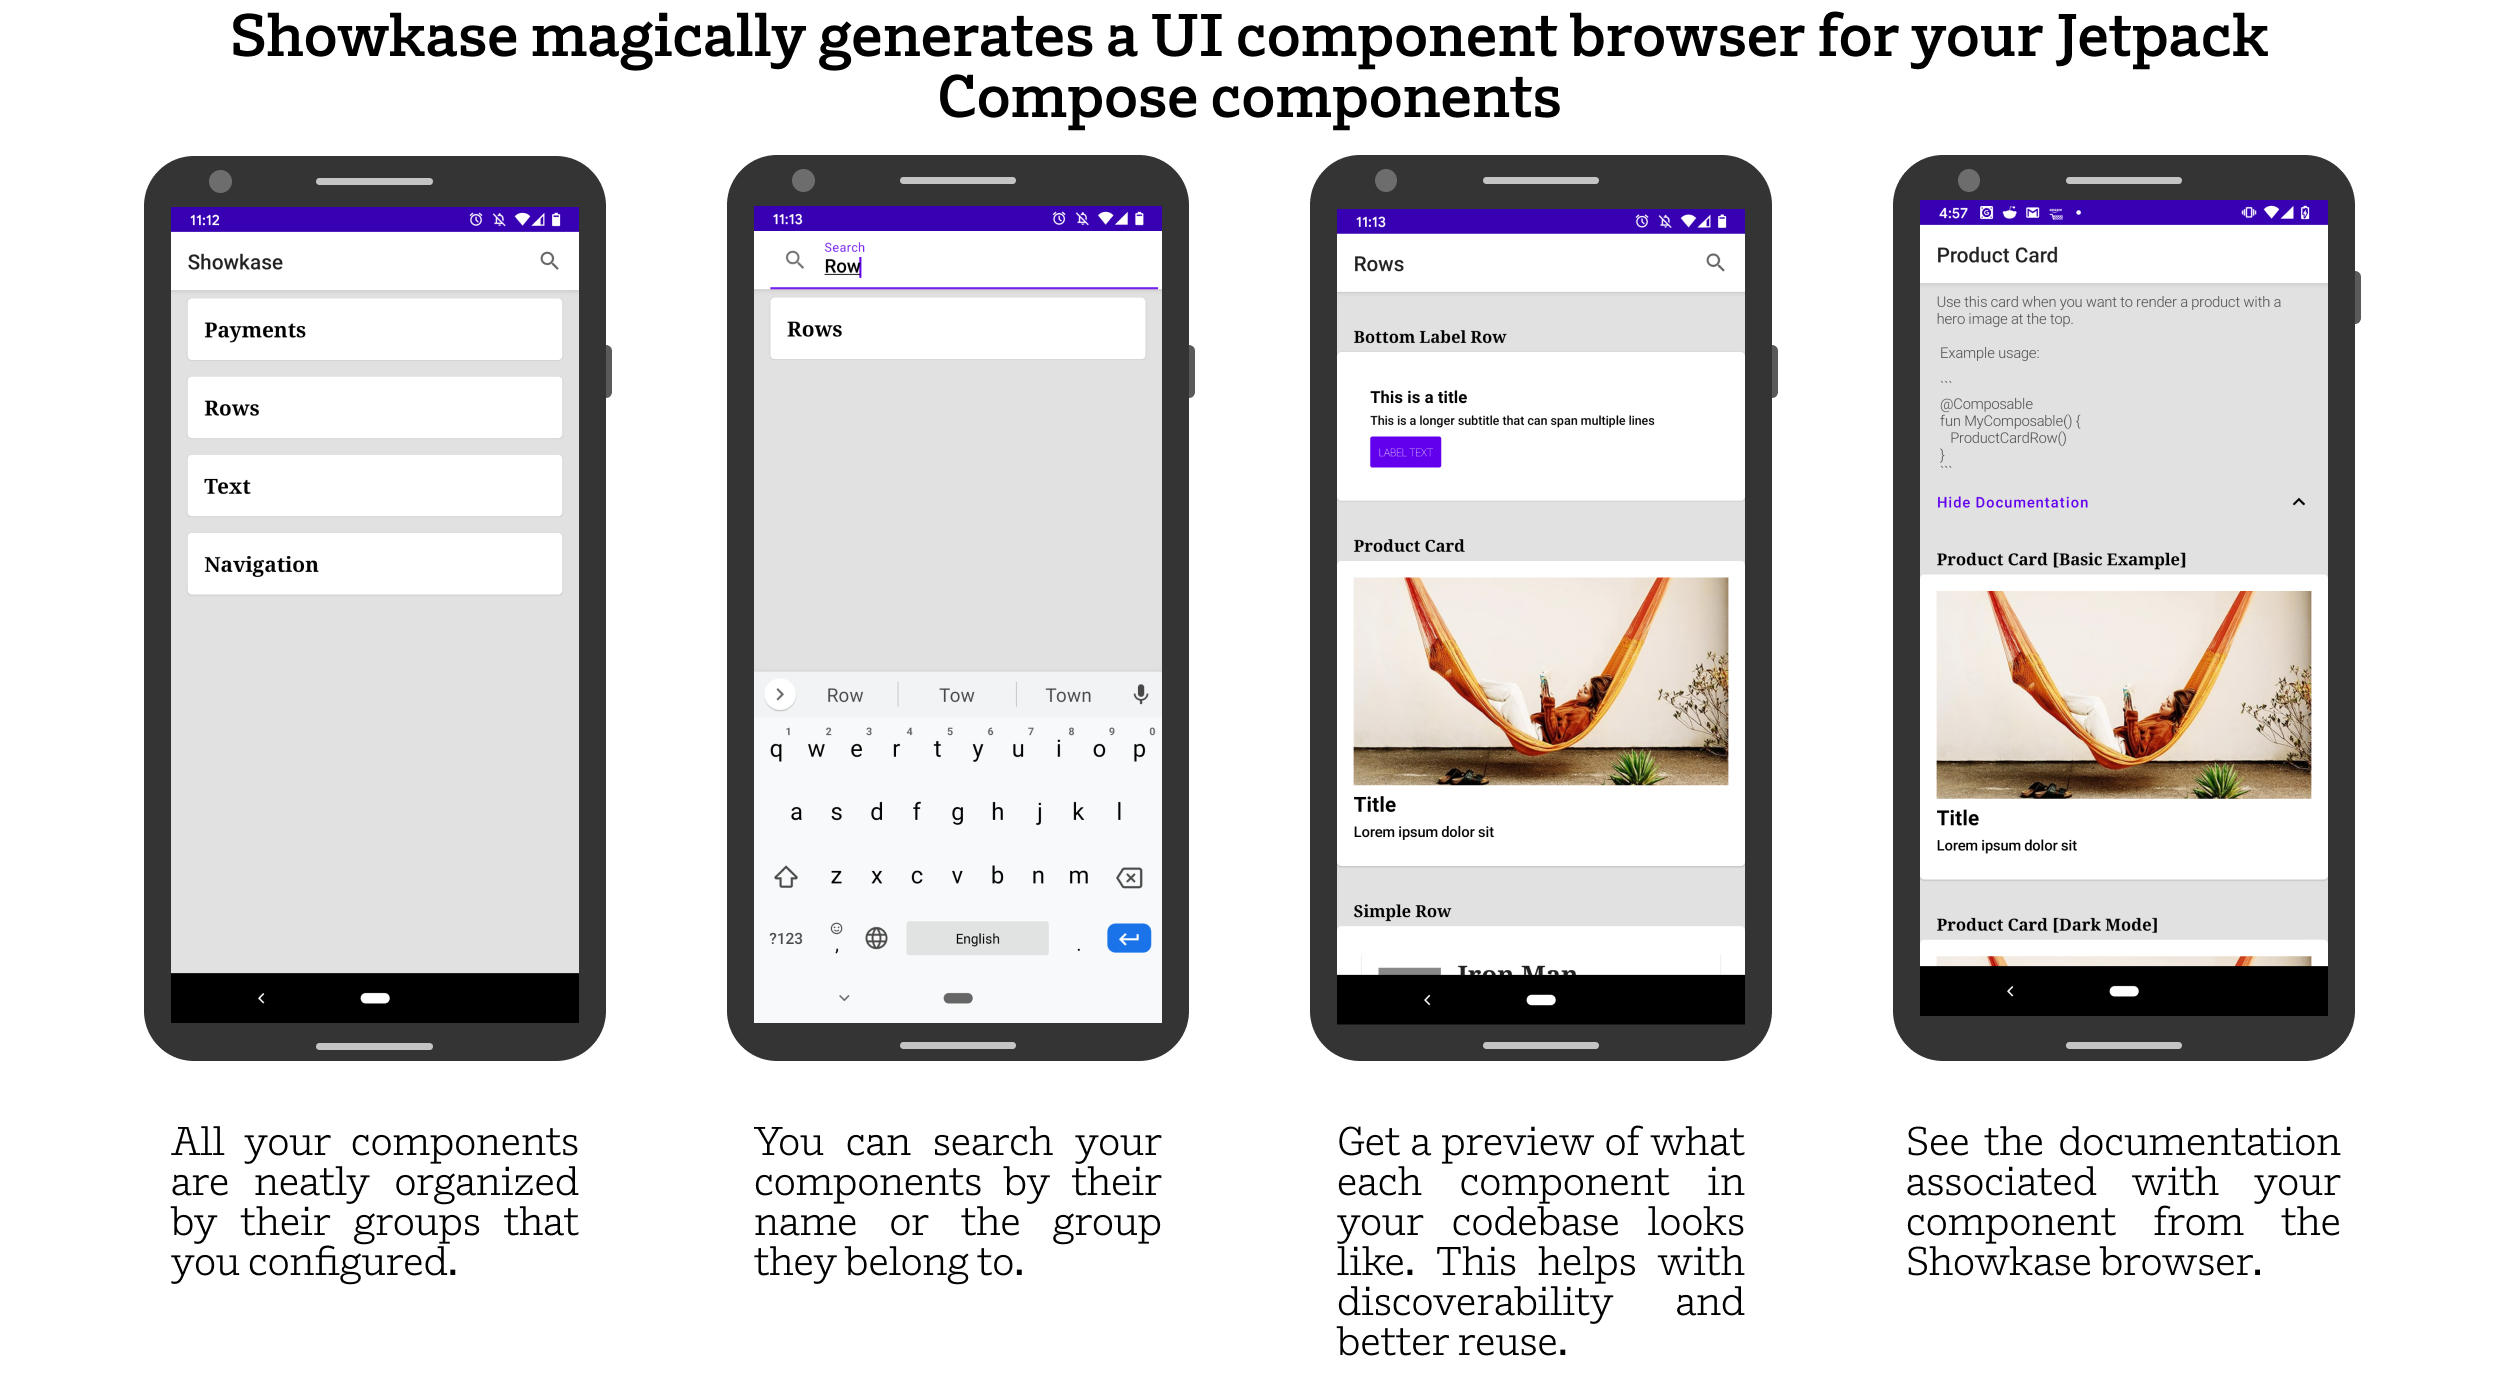
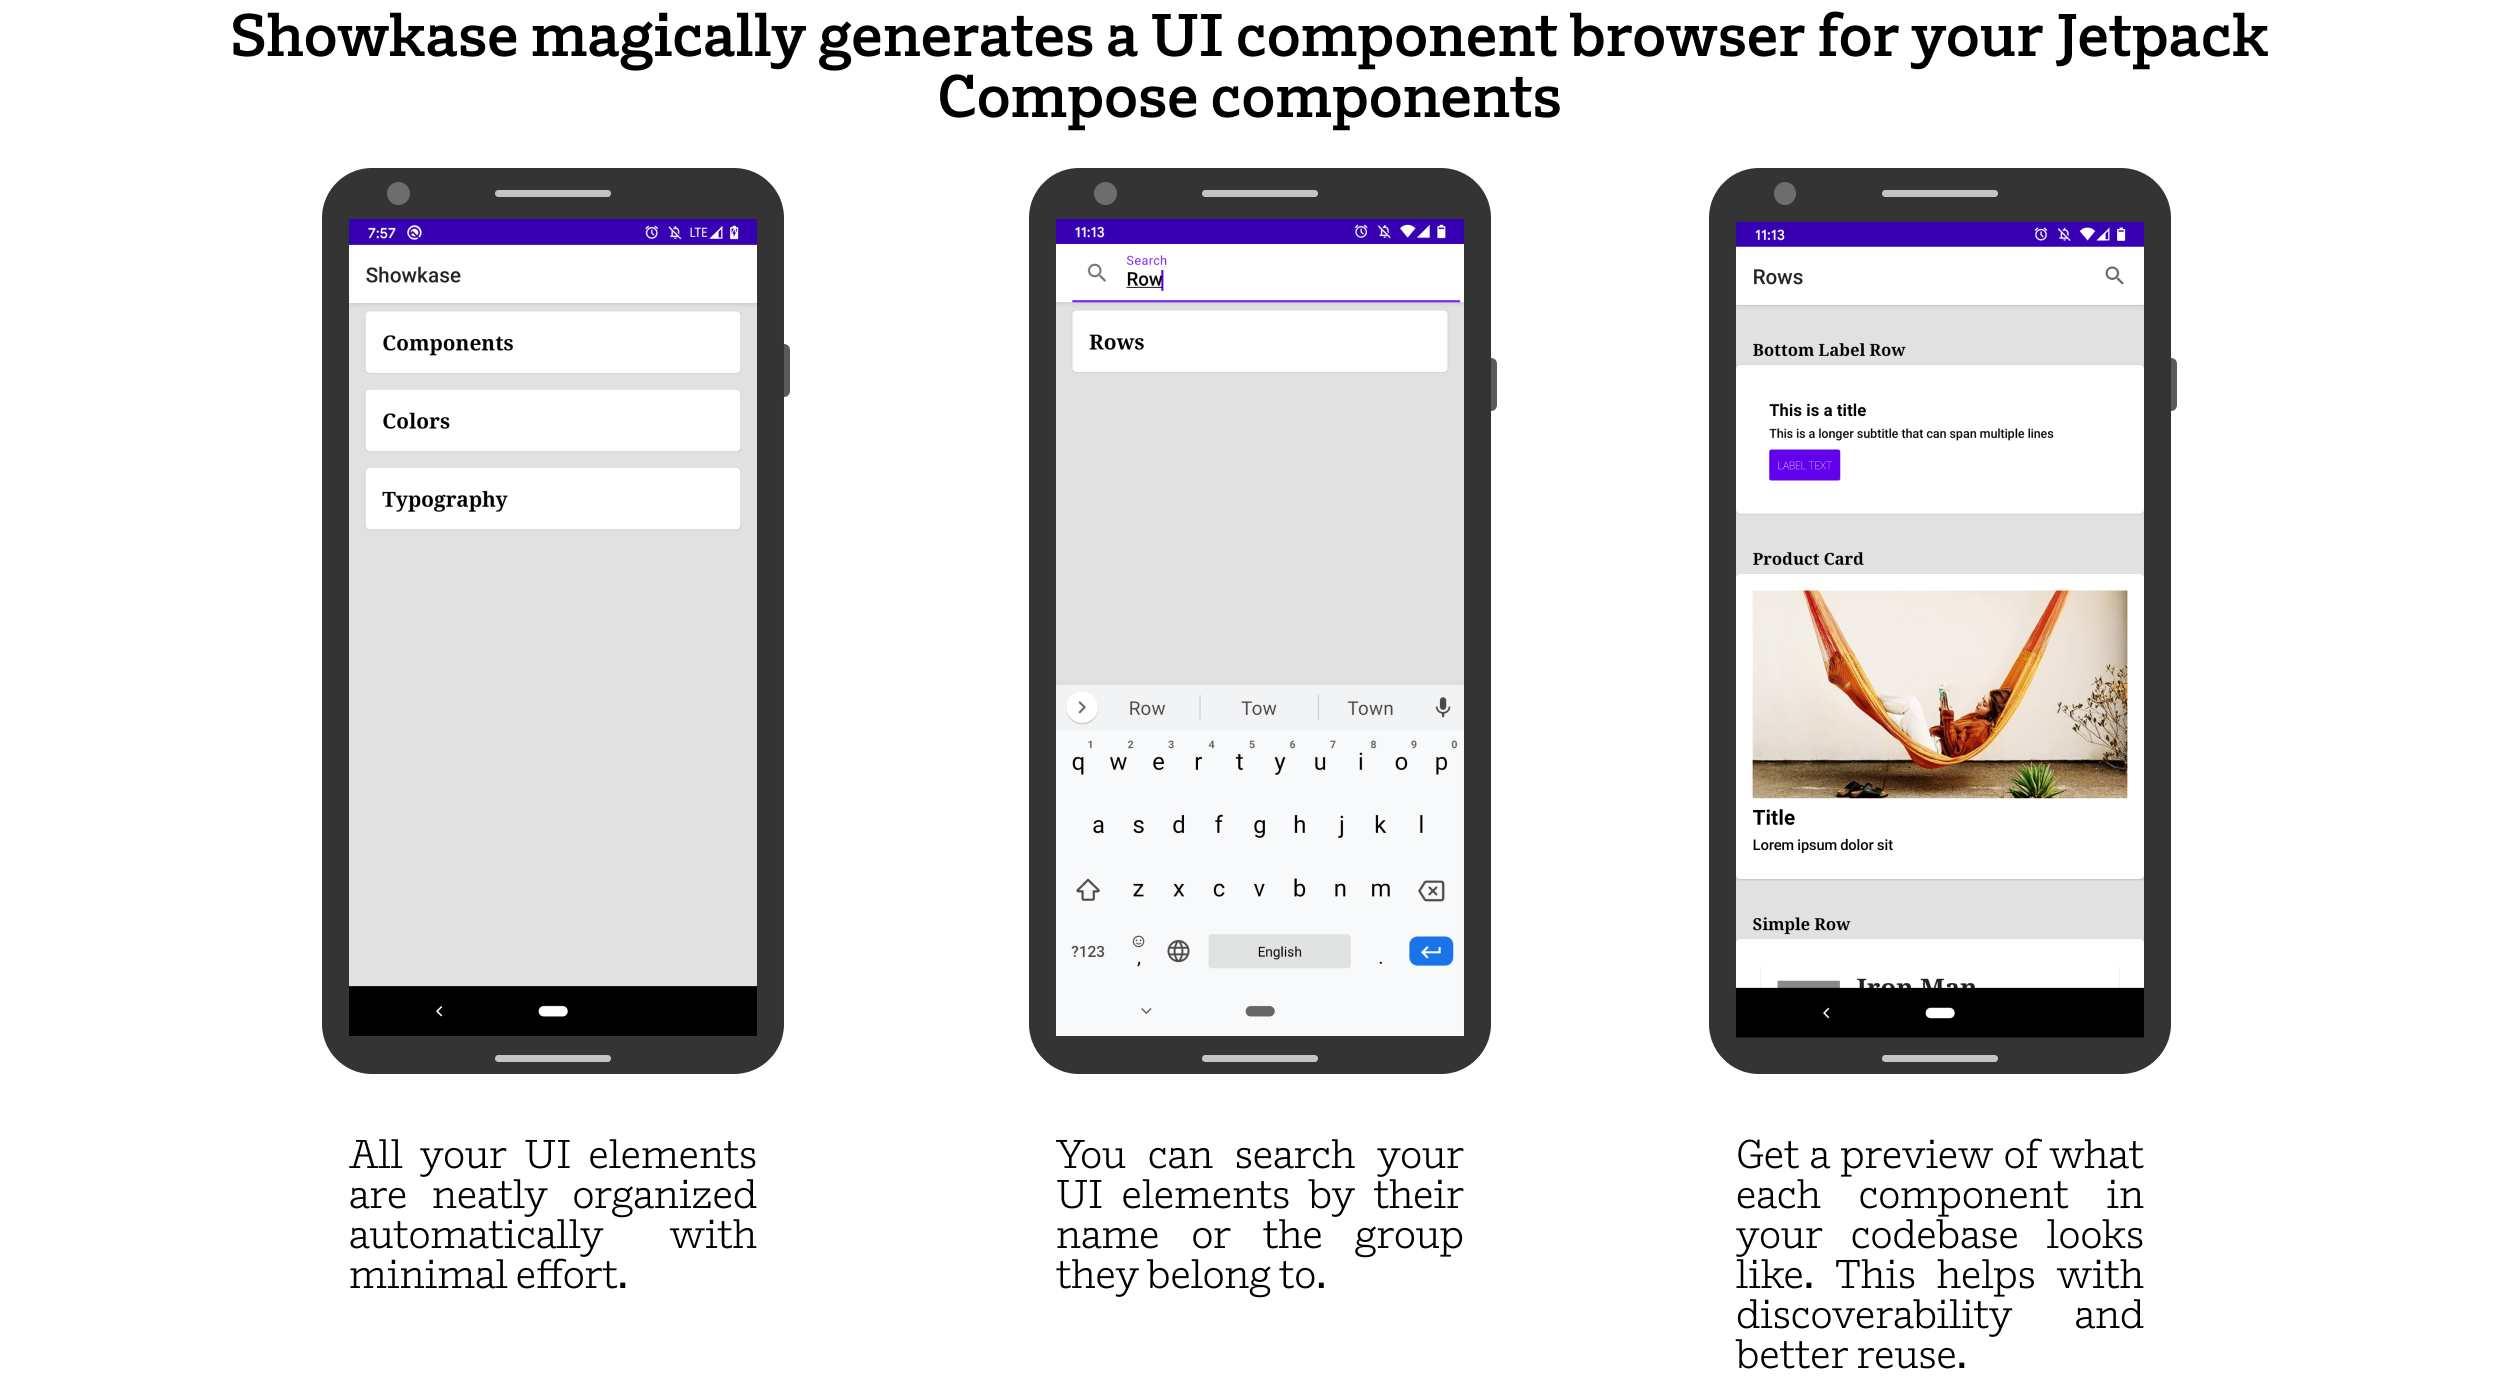
Added more screenshots to README and added documentation

diff --git a/showkase-annotation/src/main/java/com/airbnb/android/showkase/annotation/ShowkaseTypography.kt b/showkase-annotation/src/main/java/com/airbnb/android/showkase/annotation/ShowkaseTypography.kt
@@ -1,5 +1,20 @@
 package com.airbnb.android.showkase.annotation
 
+/**
+ * Used to annotate [androidx.compose.ui.text.TextStyle] properties that should be presented inside
+ * the Showkase browser. Here's how you would use it with your TextStyle fields:
+ *
+ *  @ShowkaseTypography(name = "Name", group = "Group")
+ *  val h1 = TextStyle(
+ *      fontWeight = FontWeight.Light,
+ *      fontSize = 96.sp,
+ *      letterSpacing = (-1.5).sp
+ *  )
+ *
+ * @param name The name that should be used to describe your text style.
+ * @param group The grouping key that will be used to group it with other text style properties.
+ * This is useful for better organization and discoverability of your text styles.
+ */
 @MustBeDocumented
 @Retention(AnnotationRetention.RUNTIME)
 @Target(AnnotationTarget.FIELD)

diff --git a/showkase-annotation/src/main/java/com/airbnb/android/showkase/annotation/ShowkaseColor.kt b/showkase-annotation/src/main/java/com/airbnb/android/showkase/annotation/ShowkaseColor.kt
@@ -1,5 +1,19 @@
 package com.airbnb.android.showkase.annotation
 
+/**
+ * Used to annotate [androidx.compose.ui.graphics.Color] properties that should be presented inside
+ * the Showkase browser. Here's how you would use it with your Color fields:
+ *
+ * @ShowkaseColor(name = "Name", group = "Group")
+ * val redColor = Color.Red
+ * 
+ * @ShowkaseColor("Primary", "Light Colors")
+ * val primaryColor = Color(0xFF6200EE)
+ *
+ * @param name The name that should be used to describe your color.
+ * @param group The grouping key that will be used to group it with other color properties.
+ * This is useful for better organization and discoverability of your colors.
+ */
 @MustBeDocumented
 @Retention(AnnotationRetention.RUNTIME)
 @Target(AnnotationTarget.FIELD)

diff --git a/README.md b/README.md
@@ -14,7 +14,12 @@ mode, RTL layouts, font scaled, etc.
 </p>
 
 <p align="center">
+    <img src="assets/showkase_design_system.png">
+</p>
+
+<p align="center">
     <img height="600" src="assets/showkase_demo.gif">
+    <img height="600" src="assets/showkase_design_system.gif">
 </p>
  
  ## Why should you use Showkase?
